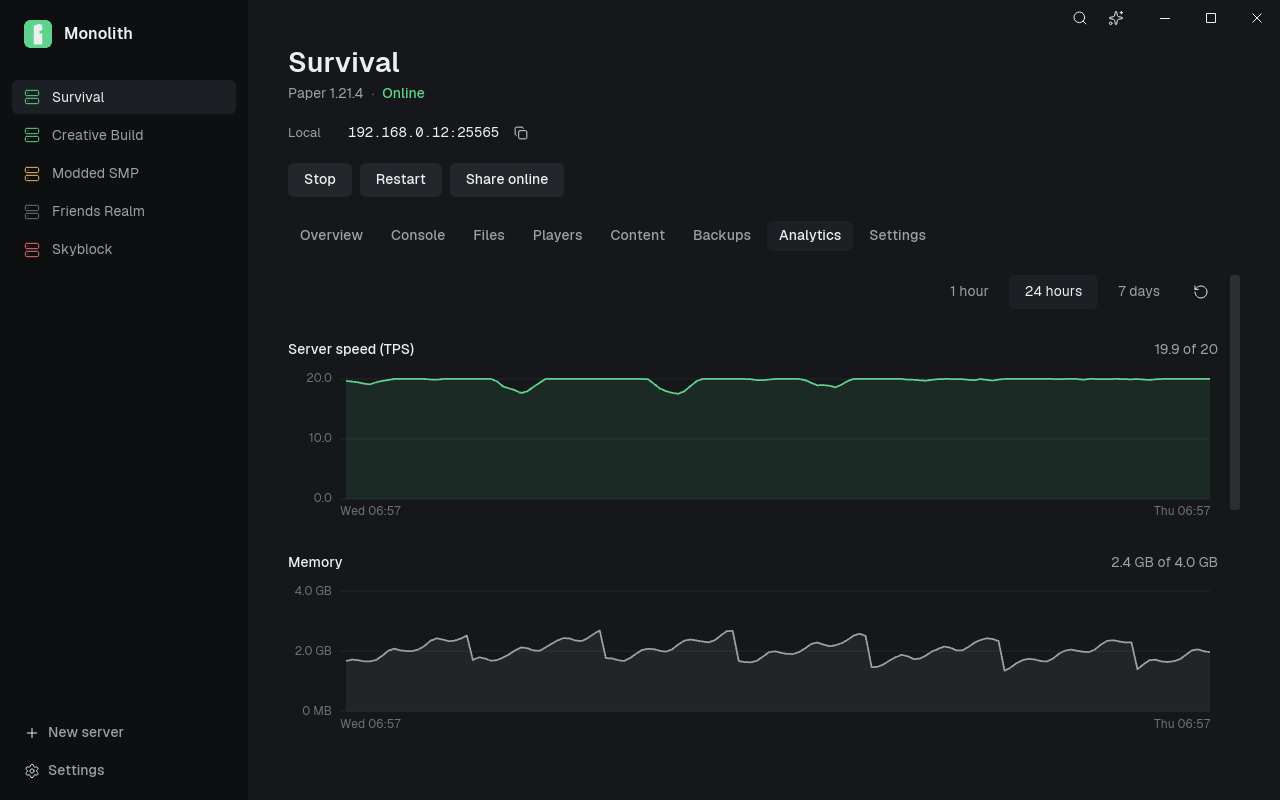
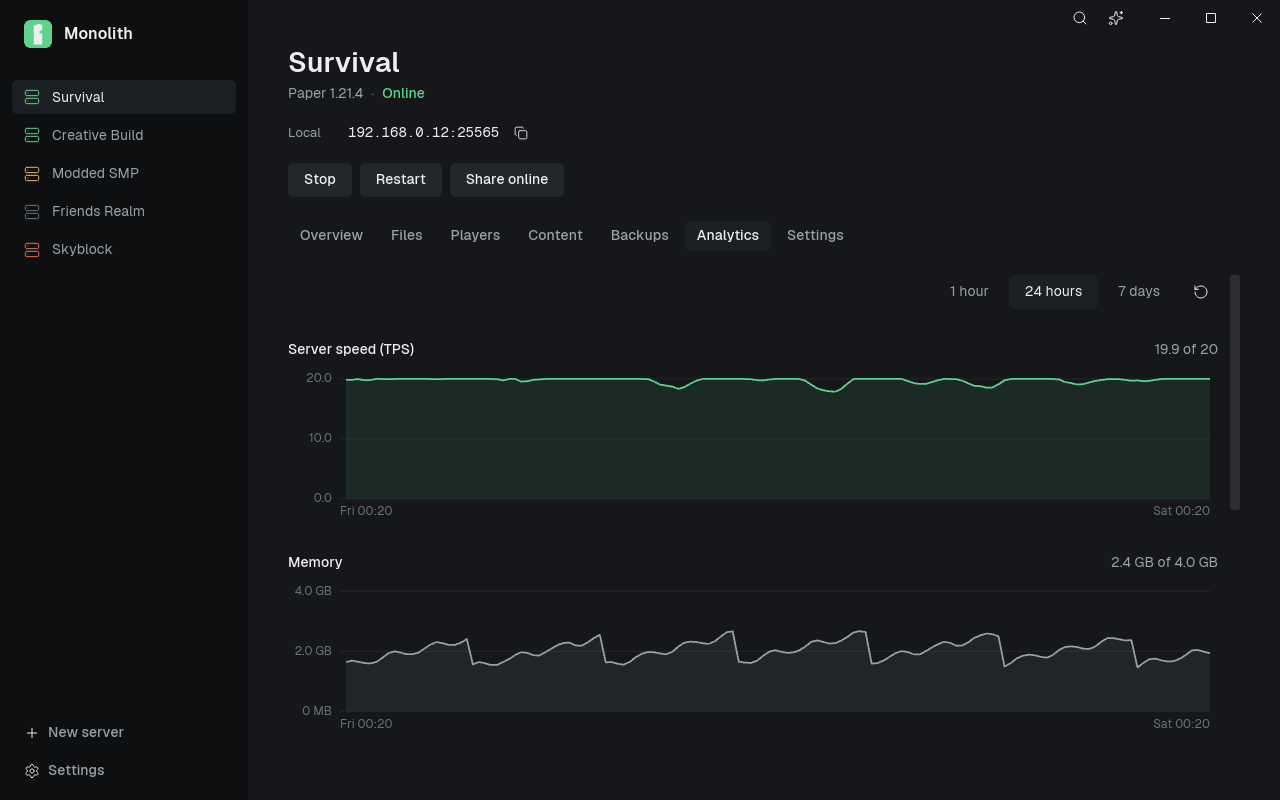
docs(readme): refresh screenshots and console description for 0.0.4

diff --git a/README.md b/README.md
@@ -8,7 +8,8 @@ Monolith is a Minecraft server manager for Windows. It sets up, runs, shares and
 
 - **Create a server in about a minute.** Pick Paper, Purpur, Fabric or Vanilla and a Minecraft version (snapshots and pre-releases included). Monolith downloads the server jar and the right Java runtime for you.
 - **Play with friends.** Copy the join address for your local network, or turn on sharing to get a public address through ngrok.
-- **Live console.** Colour-coded output, search and filters, command history, and a view that stays put while you scroll.
+- **Live console.** Colour-coded output right on the Overview, with players, TPS, memory and uptime above it, command history, and a view that stays put while you scroll.
+- **Players.** Kick, ban or make someone an operator straight from the list of who's online.
 - **Plugins and mods.** Search, install and update from Modrinth. Default plugin groups (for example "Performance" or "Skript") let you choose what goes on every new server.
 - **Settings without config files.** Common `server.properties` options as plain controls, plus a raw editor, whitelist, ban list and file browser.
 - **Backups.** One-click backups, scheduled backups and safe restores.
@@ -18,7 +19,7 @@ Monolith is a Minecraft server manager for Windows. It sets up, runs, shares and
 - **Optional AI assistant.** Bring your own OpenAI-compatible key. It can suggest changes, but nothing runs until you confirm the exact command or edit.
 
 <p>
-  <img src="docs/screenshots/console.png" width="49%" alt="Console">
+  <img src="docs/screenshots/players.png" width="49%" alt="Players">
   <img src="docs/screenshots/analytics.png" width="49%" alt="Analytics">
 </p>
 
